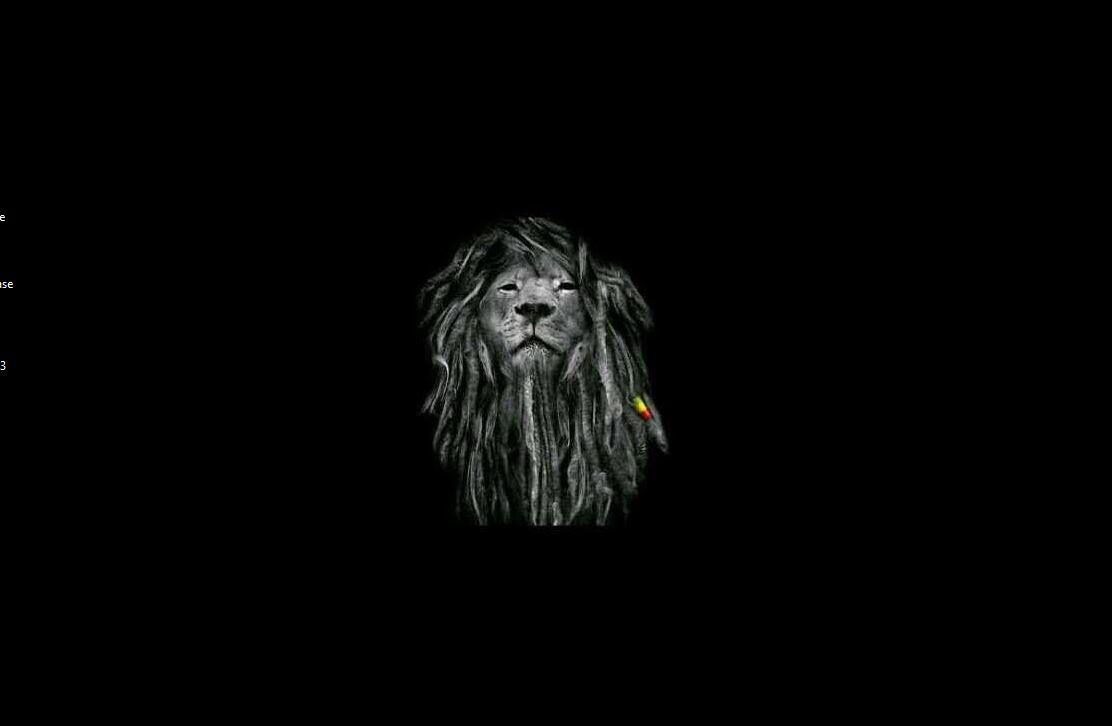
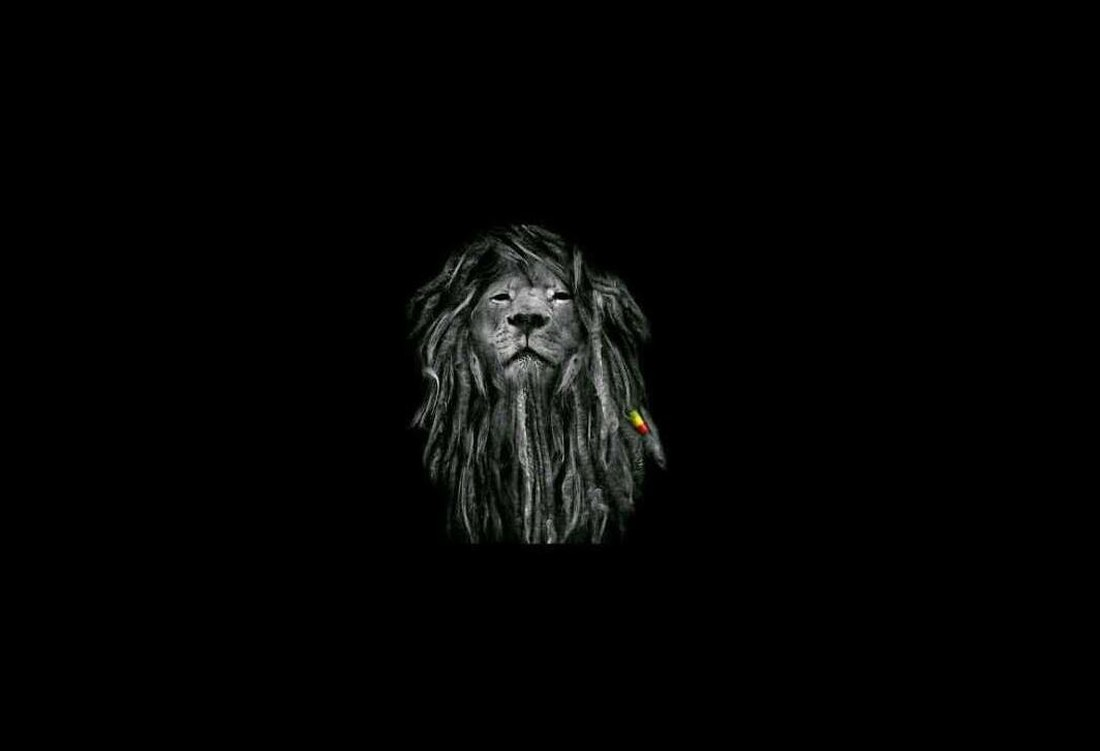
Adds tablet media

Changed region(s): [[0.3709, 0.303, 0.6182, 0.7273]]

diff --git a/src/style.css b/src/style.css
@@ -176,3 +176,44 @@ footer {
   background: #239edb 0% 100%;
   color: var(--_fontColor);
 }
+
+/*Tablet*/
+@media (min-width >= 600px) {
+  h1 {
+    --fontSize: 40px;
+    font-size: var(--_fontSize);
+    position: absolute;
+    color: black;
+    bottom: 0;
+    text-align: left;
+  }
+  .header.picture {
+    position: relative;
+    box-shadow:
+      4px 4px 8px rgba(0, 0, 0, 0.372),
+      4px 4px 8px rgba(0, 0, 0, 0.363);
+    width: 100%;
+    max-width: 1100px;
+  }
+  .header.picture img {
+    object-fit: cover;
+    display: block;
+    width: 100%;
+    height: auto;
+  }
+
+  .header.about-me p,
+  article p {
+    --padding: 0.2em;
+    --fontColor: rgb(87, 87, 87);
+    color: var(--_fontColor);
+    font-size: var(--_fontSize);
+    padding: var(--_padding);
+  }
+  nav {
+    display: flex;
+    justify-content: center;
+    gap: var(--_gap);
+    margin-top: 1em;
+  }
+}

diff --git a/src/template.html b/src/template.html
@@ -10,9 +10,9 @@
       <header class="page-header">
         <section class="header picture">
           <picture>
-            <source srcset="../icons/me3.JPG" media="(min-width: 1100px)" />
-            <source srcset="../icons/me2.JPG" media="(min-width: 967px)" />
-            <source srcset="../icons/me1.JPG" media="(min-width: 467px)" />
+            <!-- <source srcset="../icons/me3.JPG" media="(min-width: 1000px)" />
+            <source srcset="../icons/me2.JPG" media="(min-width: 500px)" /> -->
+            <!-- <source srcset="../icons/me1.JPG" media="(min-width: 467px)" /> -->
             <img src="../icons/me1.JPG" alt="whyitboi small screen" />
           </picture>
           <h1>Paul Oisamoje</h1>
